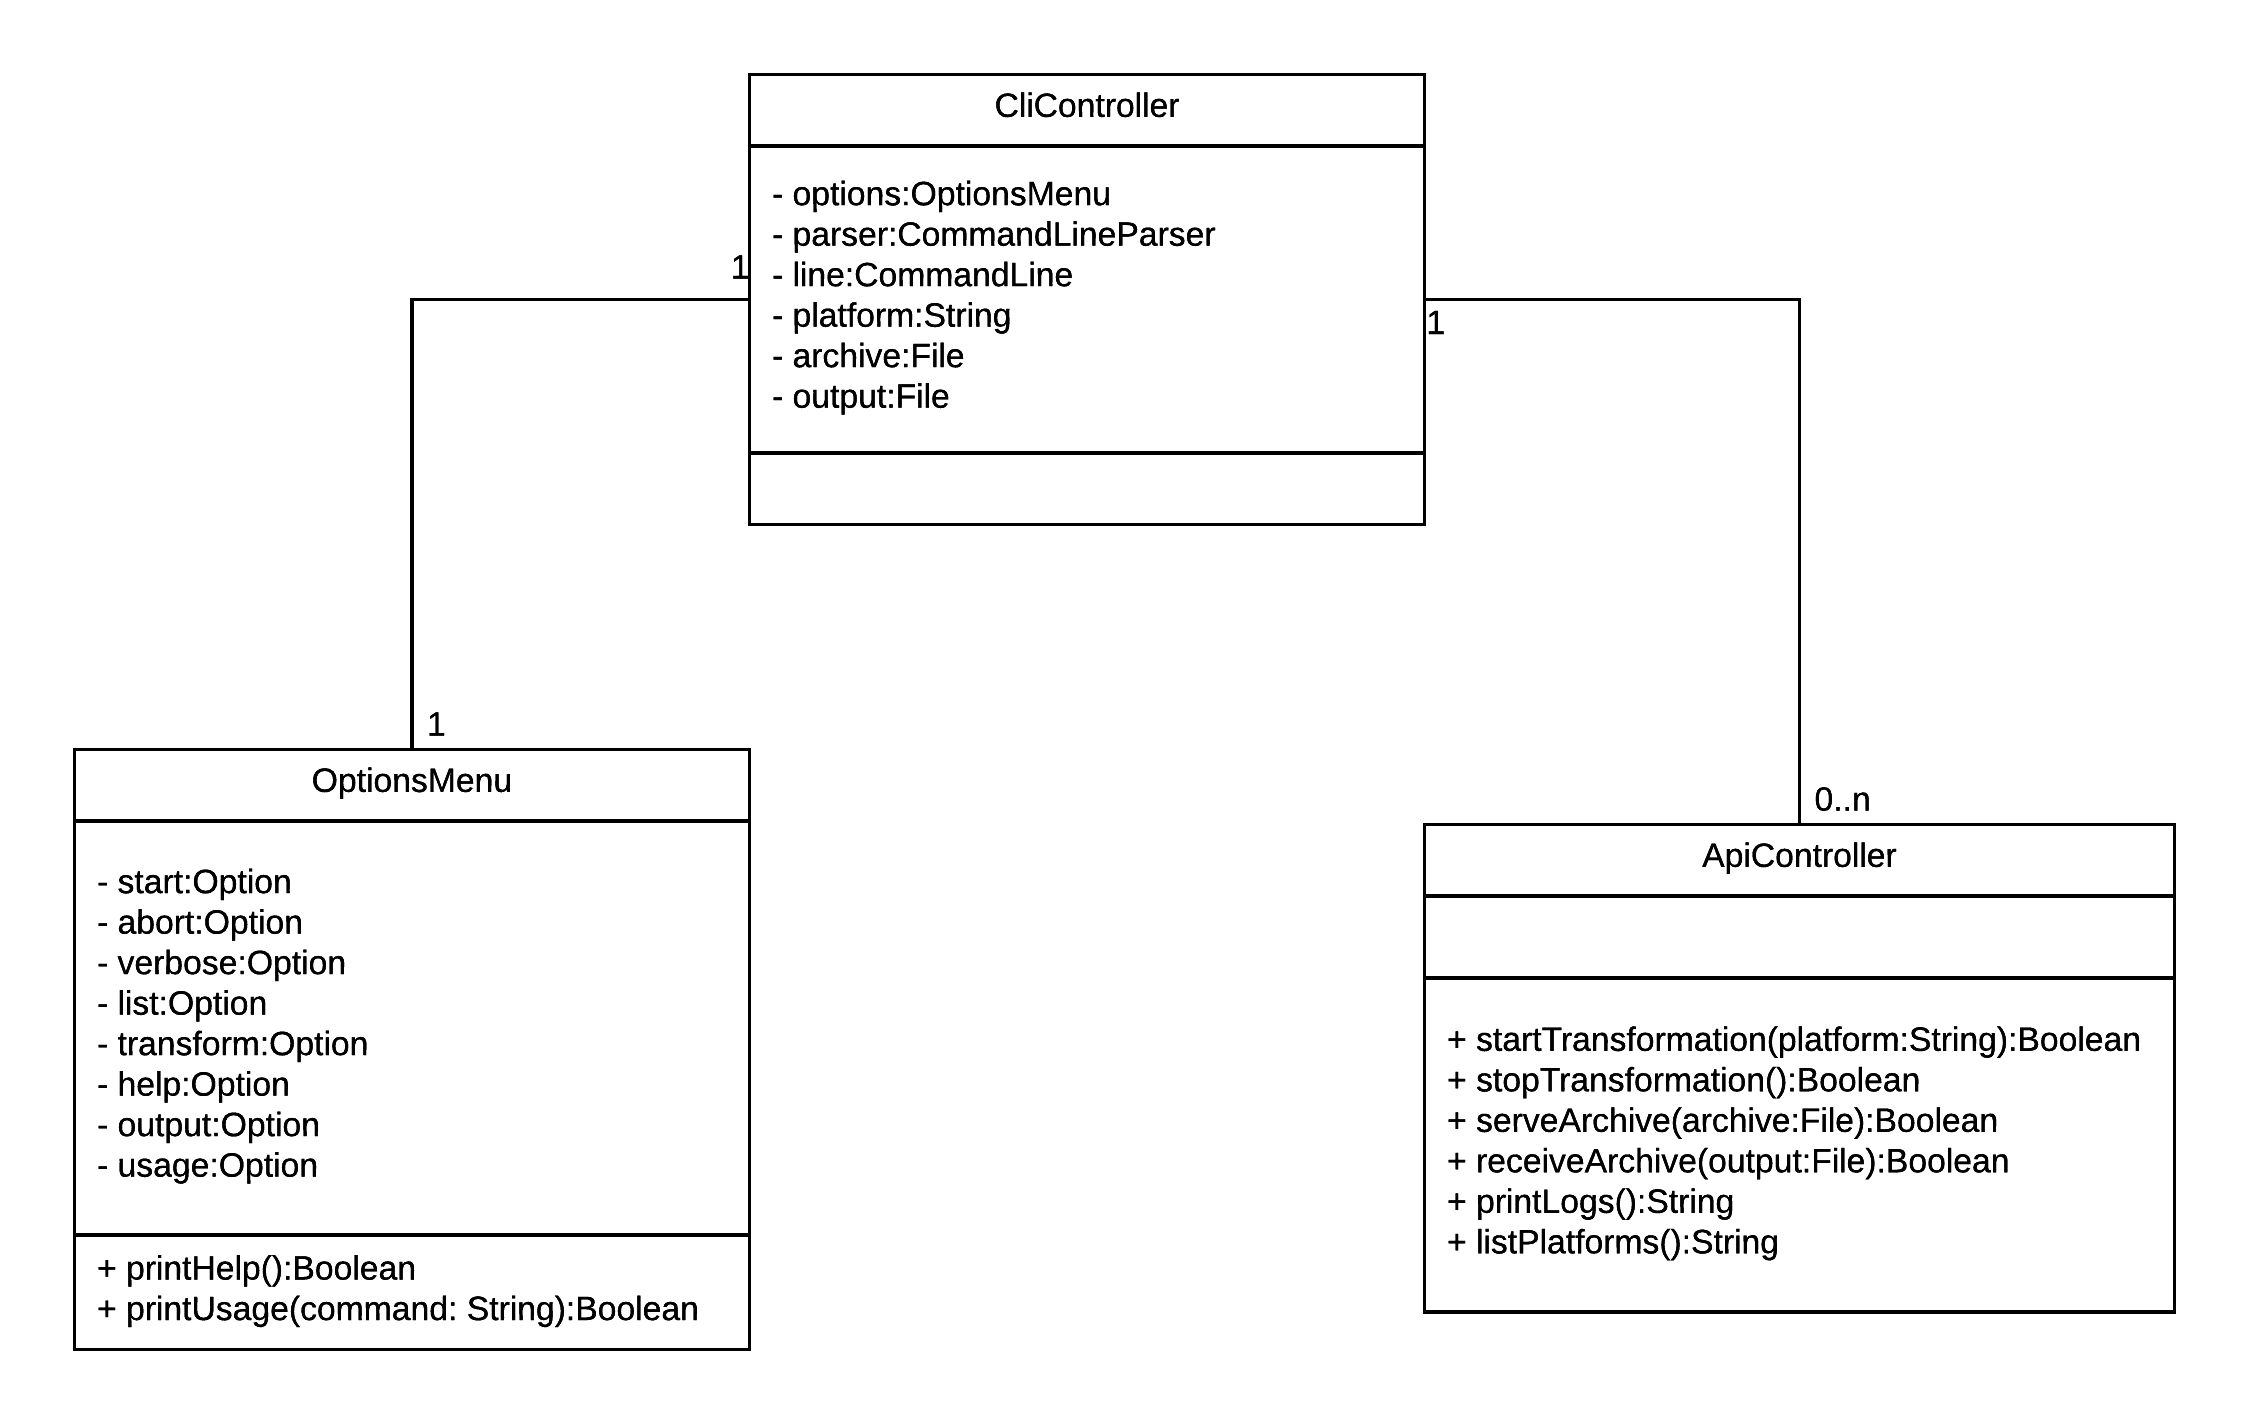
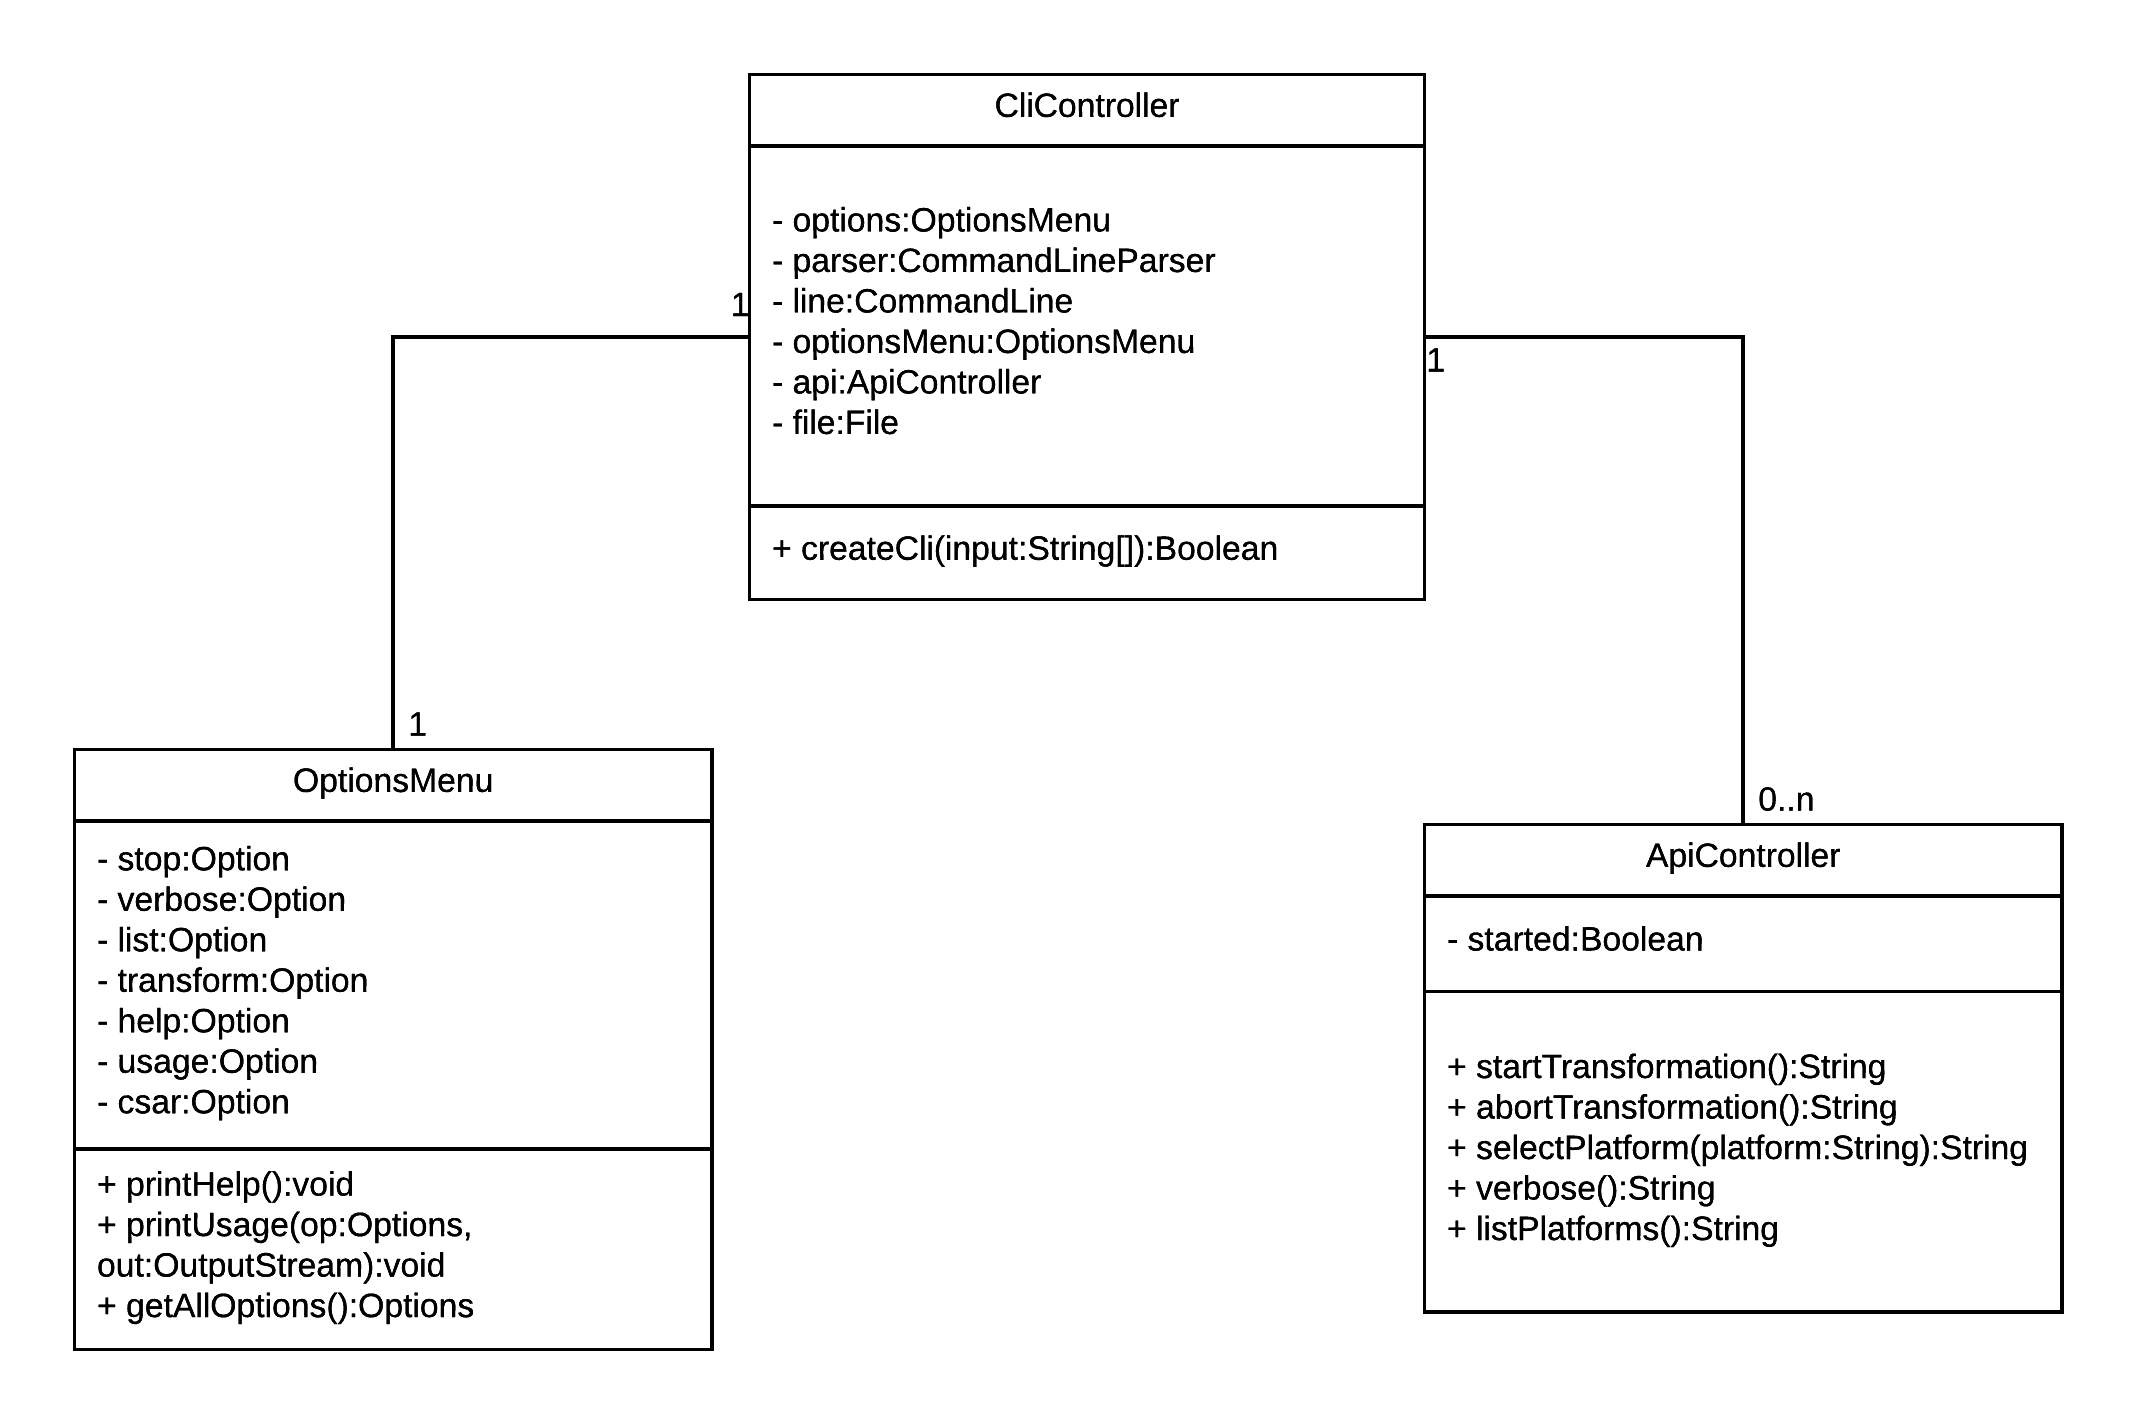
updated docs

diff --git a/cli/src/main/java/org/opentosca/toscana/cli/OptionsMenu.java b/cli/src/main/java/org/opentosca/toscana/cli/OptionsMenu.java
@@ -12,12 +12,12 @@ public class OptionsMenu extends Options {
 
     private Options options;
     private Option stop = new Option("a", "abort", false, "stops a running transformation");
-    private Option verbose = new Option("v", "verbose", false, "show logs while transformation is running");
+    private Option verbose = new Option("v", "verbose", false, "show logs while a transformation is running");
     private Option list = new Option("l", "list", false, "show all available supported platforms");
     private Option transform = new Option("t", "transform", true, "transform the given CSAR Archive to the desired platform");
     private Option help = new Option("h", "help", false, "prints the man page");
     private Option usage = new Option("u", "usage", false, "explains the usage of the commands");
-    private Option file = new Option("f", "file", true, "location for CSAR Archive that should be transformed");
+    private Option csar = new Option("c", "csar", true, "location of the CSAR Archive that should be transformed");
 
     /**
      * Constructor adds the options for the CLI
@@ -25,15 +25,15 @@ public class OptionsMenu extends Options {
     public OptionsMenu(){
         options = new Options();
         transform.setArgName("platform");
-        usage.setArgName("command");
-        file.setArgName("filepath");
+        //usage.setArgName("command");
+        csar.setArgName("location");
         options.addOption(stop);
         options.addOption(verbose);
         options.addOption(list);
         options.addOption(transform);
         options.addOption(help);
         options.addOption(usage);
-        options.addOption(file);
+        options.addOption(csar);
     }
 
     /*
@@ -42,7 +42,7 @@ public class OptionsMenu extends Options {
     public void printHelp(){
         final String syntax = "java -jar org.opentosca.toscana.cli.jar";
         final String helpHeader = "\n These are common TOSCAna commands used in various situations: \n\n";
-        final String helpFooter = "\n See 'TOSCAna -u <command>' to read about a specific subcommand \n\n";
+        final String helpFooter = "\n See 'TOSCAna -u' to read about the usage of subcommands \n\n";
         final HelpFormatter formatter = new HelpFormatter();
         formatter.printHelp(syntax, helpHeader, options, helpFooter, true);
     }

diff --git a/cli/src/main/java/org/opentosca/toscana/cli/CliController.java b/cli/src/main/java/org/opentosca/toscana/cli/CliController.java
@@ -7,7 +7,7 @@ import java.io.File;
 
 public class CliController {
 
-    //private static final Logger LOG = LoggerFactory.getLogger(CliController.class);
+    //private static final Logger logger = LoggerFactory.getLogger(CliController.class.getName());
 
     private static Options options;
     private static CommandLineParser parser;
@@ -37,14 +37,14 @@ public class CliController {
 
             line = parser.parse(options, input);
 
-        } catch(ParseException exp) {
-                System.err.println("Error occured: " +exp.getMessage());
-                //LOG.error("Error occured: ",exp);
+        } catch(ParseException e) {
+                System.err.println("Error occured: " +e.getMessage());
+                //logger.error("Error occured: ",e);
                 return false;
             }
 
-        if(line.hasOption("file")){
-            final String filePath=line.getOptionValue("file");
+        if(line.hasOption("csar")){
+            final String filePath=line.getOptionValue("csar");
             if(new File(filePath).exists() && isCSAR(filePath)) {
                 setFile(filePath);
             } else {

diff --git a/cli/src/test/java/org/opentosca/toscana/cli/ApiTest.java b/cli/src/test/java/org/opentosca/toscana/cli/ApiTest.java
@@ -1,0 +1,47 @@
+package org.opentosca.toscana.cli;
+
+import org.junit.Before;
+import org.junit.Test;
+import org.junit.runner.RunWith;
+import org.junit.runners.JUnit4;
+
+import static junit.framework.TestCase.assertTrue;
+import static org.junit.Assert.assertEquals;
+
+@RunWith(JUnit4.class)
+public class ApiTest {
+    private ApiController api = null;
+
+    @Before
+    public void setUp(){
+        api = new ApiController();
+    }
+
+    @Test
+    public void runTransformation(){
+        assertEquals("Starting Transformation",api.startTransformation());
+    }
+
+    @Test
+    public void abortTransformation(){
+        api.startTransformation();
+        assertEquals("Aborting Transformation",api.abortTransformation());
+    }
+
+    @Test
+    public void testVerbose(){
+        assertEquals("Logs activated",api.verbose());
+    }
+
+    @Test
+    public void testListing(){
+        assertEquals("Show available Platforms",api.listPlatforms());
+    }
+
+    @Test
+    public void testSelectPlatform(){
+        assertEquals("Platform selected: testunit",api.selectPlatform("testunit"));
+    }
+
+}
+

diff --git a/cli/src/test/java/org/opentosca/toscana/cli/MainTest.java b/cli/src/test/java/org/opentosca/toscana/cli/MainTest.java
@@ -22,5 +22,20 @@ public class MainTest {
         assertTrue(main.createCli(new String[] {""}));
     }
 
+    @Test
+    public void printHelp() {
+        assertTrue(main.createCli(new String[] {"-h"}));
+    }
+
+    @Test
+    public void printUsageHelp() {
+         assertTrue(main.createCli(new String[] {"-u"}));
+    }
+
+    @Test
+    public void startTransformation(){
+        assertTrue(main.createCli(new String[] {"-t platform1 -c abc.csar"}));
+    }
+
 }
 

diff --git a/cli/src/main/java/org/opentosca/toscana/cli/ApiController.java b/cli/src/main/java/org/opentosca/toscana/cli/ApiController.java
@@ -5,7 +5,7 @@ import org.slf4j.LoggerFactory;
 
 public class ApiController {
 
-    //private static final Logger LOG = LoggerFactory.getLogger(ApiController.class);
+    //private static final Logger logger = LoggerFactory.getLogger(ApiController.class);
     private boolean started=false;
 
     /**

diff --git a/docs/dev/cli-architecture.md b/docs/dev/cli-architecture.md
@@ -9,22 +9,25 @@ This document describes the architecture, the supported commands and used librar
 
 The CliController is the main class to initialize the CLI and show the possible commands of the OptionsMenu the User can execute. After the user has input a command, the CliController calls the ApiController to process the command.
 
+The methods shown in the above class diagram have the following functionality:
+* `createCli(input: String[]):Boolean` - launches the CLI and processes passed commands
+
 ## OptionsMenu
 The OptionsMenu contains all commands the User can call with the CLI.
 
 The methods shown in the above class diagram have the following functionality:
-* `printHelp():Boolean` - prints all possible Commands the User can call
-* `printUsage():Boolean` - the Usage of the specific CLI command is explained
+* `printHelp():void` - prints all possible Commands the User can call
+* `printUsage():void` - the Usage of the specific CLI command is explained
+* `getAllOptions():Options` - returns all available Options
 
 ## ApiController
 The ApiController performs the tasks the User wants to do and calls the functions of the REST API.
 
 The methods shown in the above class diagram have the following functionality:
-* `startTransformation(platform: String): Application` - starts a new Transformation to the desired Platform
-* `stopTransformation():Boolean` - stops currently running Transformation
-* `serveArchive(archive: File):Boolean` - the Archive gets uploaded to the API Server
-* `receiveArchive(output:File):Boolean` - the transformed archive gets downloaded from the API Server
-* `printLogs():String` - prints logs for better debugging
+* `startTransformation():String` - starts a new Transformation to the desired Platform
+* `abortTransformation():String` - stops currently running Transformation
+* `selectPlatform(platform: String):String` - the Platform is selected from the User
+* `verbose():String` - prints logs
 * `listPlatforms():String` - lists all available Platforms where an archive can be deployed
 
 ## Basics
@@ -37,16 +40,15 @@ The main tasks of the CLI component are:
 - create threads to provide asynchronous operations
 
 ## Supported Commands
-| command | description | option |
-|-----------------------|-----------------------|-------------------------------|
-| start transformation | starts the transformation | -s or --start-transformation |
-| abort transformation | stops the transformation | -a or --abort-transformation |
-| verbose | show logs while transformation | -v or --verbose |
-| list | show all available supported platforms | -l or --list |
-| transform | transform the given topology to the desired platforms | -t platform or --transform platform |
-| help | prints the man page | -h or --help |
-| output | location where the transformation should be placed | -o location or --output location
-| usage | explains how the command works | -u command or -usage command |
+| CLI Option | Description | Call Command |
+|-------------|-------------|-------------|
+| provide CSAR | provide location of the CSAR Archive, the location is passed as parameter | `-c <location>` or `--csar <location>` |
+| start transformation | start the transformation of the given topology to the desired platform, the platform is passed as parameter | `-t <platform>` or `--transform <platform>` |
+| stop transformation | stops the currently running transformation | `-a` or `--abort` |
+| verbose | show logs while transformation is running | `-v` or `--verbose` |
+| list | show all available supported platforms | `-l` or `--list` |
+| help | prints the man page | `-h` or `--help` |
+| usage | explains how the commands are called | `-u` or `-usage` |
 
 ## Architecture Library
 To control the TOSCAna software we need a command-line-interface (CLI) which will be integrated in the program-code. Therefore we could use different libraries.
